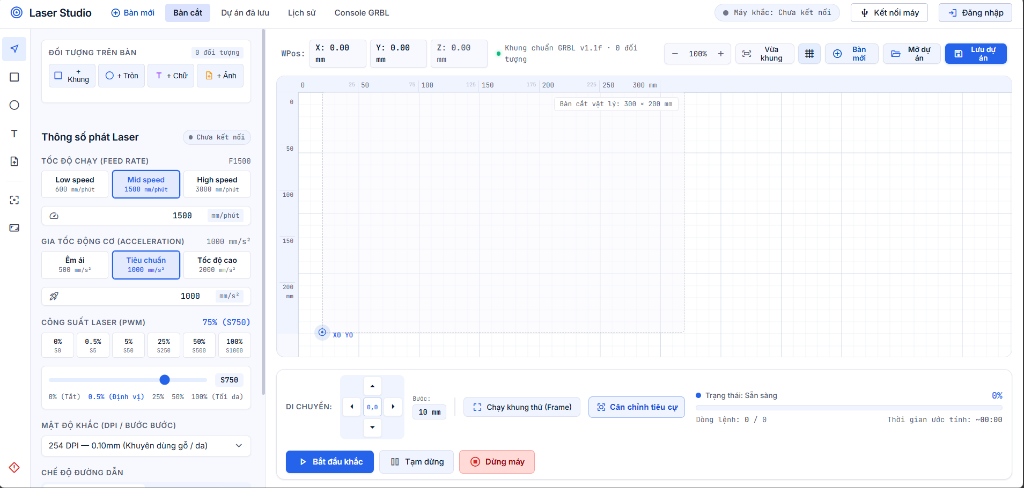
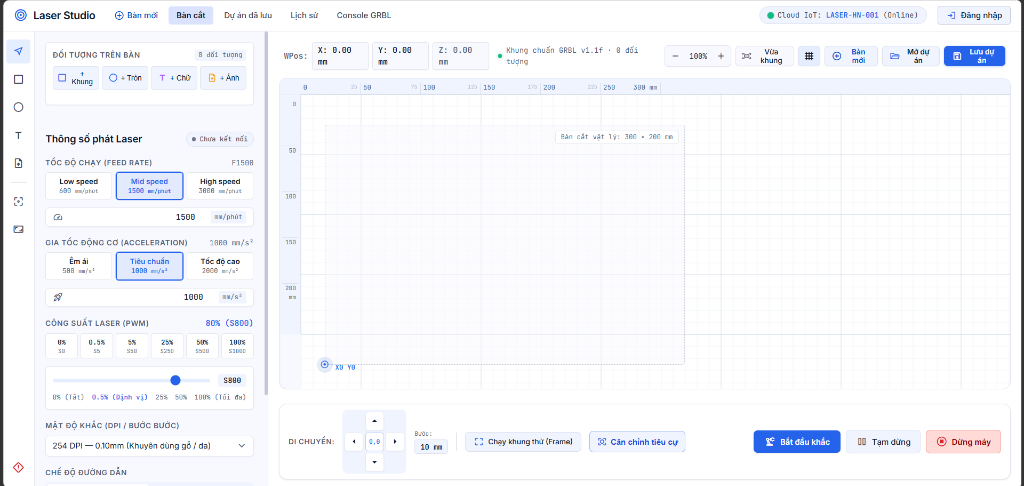
readme

diff --git a/README.md b/README.md
@@ -2,12 +2,13 @@
 
 # ⚡ LaserGUI — Web Controller & Laser Studio
 
-### Hệ thống Web Studio điều khiển máy khắc Laser 2 trục X-Y trực tiếp qua Web Serial API
+### Hệ thống Web Studio điều khiển & điều hành trạm khắc Laser 2 trục X-Y qua Web Serial API và IoT Cloud WebSocket
 
 [![React](https://img.shields.io/badge/React-18.x-61DAFB?style=for-the-badge&logo=react&logoColor=black)](https://react.dev/)
 [![Vite](https://img.shields.io/badge/Vite-8.x-646CFF?style=for-the-badge&logo=vite&logoColor=white)](https://vitejs.dev/)
 [![Web Serial API](https://img.shields.io/badge/Web_Serial_API-Enabled-00C853?style=for-the-badge&logo=googlechrome&logoColor=white)](https://developer.mozilla.org/en-US/docs/Web/API/Web_Serial_API)
-[![GRBL](https://img.shields.io/badge/Firmware-GRBL_v1.1f-orange?style=for-the-badge&logo=arduino&logoColor=white)](https://github.com/gnea/grbl)
+[![WebSocket STOMP](https://img.shields.io/badge/IoT_Cloud-WebSocket_STOMP-blueviolet?style=for-the-badge)](https://stomp.github.io/)
+[![GRBL & ESP32](https://img.shields.io/badge/Firmware-GRBL_v1.1f_%7C_MKS_DLC32-orange?style=for-the-badge&logo=arduino&logoColor=white)](https://github.com/makerbase-mks/MKS-DLC32)
 [![Author](https://img.shields.io/badge/Tác_giả-Vũ_Đình_Ân-blue?style=for-the-badge&logo=github)](https://github.com/AnVu05)
 [![OJT](https://img.shields.io/badge/Đơn_vị_OJT-HYPERDATA_LAB-purple?style=for-the-badge)](https://github.com/AnVu05)
 [![License](https://img.shields.io/badge/Giấy_phép-MIT-brightgreen?style=for-the-badge)](LICENSE)
@@ -15,7 +16,7 @@
 <br />
 
 <p align="center">
-  <b>LaserGUI</b> là ứng dụng Web Single-Page Application (SPA) hiện đại được thiết kế để điều khiển, thiết kế và truyền phát mã G-code trực tiếp xuống máy khắc Laser CNC 2 trục từ trình duyệt Web thông qua <b>Web Serial API</b> mà không cần cài đặt phần mềm bên thứ ba như LightBurn hay LaserGRBL.
+  <b>LaserGUI</b> là ứng dụng Web Single-Page Application (SPA) công nghiệp hiện đại, tích hợp toàn diện quy trình từ <b>thiết kế 2D Canvas</b>, <b>xử lý ảnh số Dithering</b>, <b>sinh mã G-code chuẩn GRBL</b>, truyền phát trực tiếp qua <b>Web Serial API</b> tại chỗ cho đến <b>điều hành trạm máy IoT Cloud từ xa</b>, quản lý <b>hàng đợi gia công FIFO</b> và <b>phê duyệt an toàn vật liệu 2 bước</b>.
 </p>
 
 </div>
@@ -25,12 +26,22 @@
 ## 📸 Giao diện Ứng dụng Thực tế (Showcase)
 
 ### 1. Toàn cảnh Không gian làm việc Laser Studio (Workspace Overview)
-Giao diện trực quan hóa bàn khắc 300 × 200 mm, bảng điều khiển thông số phát Laser PWM, hệ thống Jogging 4 hướng và thanh công cụ điều khiển thời gian thực:
+Giao diện trực quan hóa bàn khắc $300 \times 200\text{ mm}$, bảng cấu hình phát Laser PWM (Feed Rate, Gia tốc, Mật độ DPI), hệ thống phím Jogging 4 hướng và tích hợp chỉ báo trạng thái kết nối Cloud IoT trạm máy:
 
 ![Laser Studio Workspace Overview](./docs/images/laser-studio-overview.png)
 
-### 2. Thuật toán Xử lý ảnh Dithering Floyd-Steinberg trên Bàn cắt
-Minh họa đưa ảnh bitmap (Tranh dân gian gà Đông Hồ) lên bàn khắc vật lý, xử lý ma trận điểm ảnh raster và định vị gốc phôi chuẩn xác:
+### 2. Bảng Điều Hành Trạm Máy & Giám Sát IoT Thời Gian Thực (Station IoT & Admin Dashboard)
+Bảng điều khiển chuyên sâu dành riêng cho vai trò Quản lý / Kỹ thuật viên vận hành xưởng: Giám sát toàn diện các chỉ số trạm máy (Trạng thái trạm, Hàng đợi FIFO, Chờ duyệt an toàn tại chỗ, Đang gia công khắc, Đã hoàn tất), thông số vi điều khiển Makerbase MKS DLC32 (Địa chỉ IP, Cường độ sóng Wi-Fi RSSI, Bộ nhớ RAM Heap) và đồng bộ cấu hình phần cứng v2:
+
+![Bảng Điều Hành Trạm Máy & Phê Duyệt An Toàn](./docs/images/admin-station-dashboard.png)
+
+### 3. Quản Lý Hàng Đợi Gia Công (FIFO Queue) & Phê Duyệt An Toàn Vật Liệu
+Giao diện điều phối hàng đợi thông minh cho phép khách hàng tạo yêu cầu gia công liên tục ngay cả khi máy đang bận. Tích hợp bộ lọc trạng thái đa năng, đối soát tính toàn vẹn mã G-code bằng hàm băm mật mã học **SHA-256**, theo dõi thanh tiến độ gia công thời gian thực và thực hiện phê duyệt an toàn trước khi chiếu tia:
+
+![Quản lý Hàng đợi & Phê duyệt An toàn](./docs/images/admin-job-queue-management.png)
+
+### 4. Thuật toán Xử lý ảnh Dithering Floyd-Steinberg trên Bàn cắt
+Minh họa đưa ảnh bitmap lên bàn khắc vật lý, xử lý ma trận điểm ảnh raster và định vị gốc phôi chuẩn xác không gây cháy xém:
 
 ![Dithering Canvas Preview](./docs/images/dithering-canvas-preview.png)
 
@@ -39,39 +50,72 @@ Minh họa đưa ảnh bitmap (Tranh dân gian gà Đông Hồ) lên bàn khắc
 ## 🌟 Tính Năng Nổi Bật (Key Features)
 
 ### 1. 🎨 Bàn Làm Việc 2D Canvas Studio Chuyên Nghiệp
-- **Khổ cắt vật lý chuẩn hóa**: Khổ làm việc $300 \times 200\text{ mm}$ khớp với chuẩn cơ khí máy khắc Laser CNC (CNC Shield V3 / MKS DLC32).
-- **Thước đo & Hệ tọa độ thời gian thực (WPos)**: Hiển thị tọa độ đầu laser chính xác từng $0.1\text{ mm}$, lưới kẻ ô millimeter hỗ trợ căn chỉnh phôi.
+- **Khổ cắt vật lý chuẩn hóa**: Vùng làm việc tiêu chuẩn $300 \times 200\text{ mm}$ tương thích hoàn hảo với cơ cấu chuyển động trục đai 2 trục X-Y.
+- **Thước đo & Tọa độ thời gian thực (WPos)**: Hiển thị tọa độ đầu khắc chính xác từng $0.1\text{ mm}$, hệ lưới millimeter hỗ trợ căn phôi nhanh chóng.
 - **Đa dạng đối tượng thiết kế**:
-  - Đối tượng hình học vector (Khung chữ nhật, Hình tròn/Ellipse).
-  - Khắc chữ (Text Vector) tự động tính toán tỷ lệ.
+  - Đối tượng vector hình học (Khung chữ nhật, Hình tròn/Ellipse).
+  - Khắc chữ (Text Vector) tự động tính toán kích thước bao (Bounding Box).
   - Ảnh Bitmap (PNG, JPG, BMP) tự động tính toán kích thước tối ưu theo tỷ lệ gốc.
-- **Công cụ điều hướng mạnh mẽ**: Phóng to/thu nhỏ (Zoom in/out), Vừa khung hình (Fit view), căn giữa và khóa tỷ lệ khung hình (Aspect Ratio Lock).
+- **Công cụ điều hướng trực quan**: Phóng to/thu nhỏ (Zoom in/out), Vừa khung hình (Fit view), Bàn mới, nạp lại dự án đã lưu.
 
 ### 2. 🖼 Thuật Toán Xử Lý Ảnh Số Chuyên Biệt Cho Khắc Laser Diode
-- **Chuyển đổi Grayscale chuẩn ITU-R BT.601**: Áp dụng trọng số quang học chính xác ($Y = 0.299R + 0.587G + 0.114B$).
-- **Khuếch tán sai số Floyd-Steinberg Dithering**: Phân phối sai số điểm ảnh sang 4 pixel lân cận theo ma trận $\frac{7}{16}, \frac{3}{16}, \frac{5}{16}, \frac{1}{16}$, triệt tiêu hiện tượng răng cưa và tạo chiều sâu sắc nét cho tranh khắc gỗ/da.
-- **Tinh chỉnh ảnh thời gian thực**: Điều chỉnh độ tương phản (Contrast), độ sáng (Brightness) và chế độ đảo màu âm bản (Invert) phù hợp cho khắc bề mặt mica đen hoặc nhôm phủ sơn.
+- **Chuyển đổi Grayscale chuẩn ITU-R BT.601**: Áp dụng trọng số quang phổ chuẩn xác ($Y = 0.299R + 0.587G + 0.114B$).
+- **Khuếch tán sai số Floyd-Steinberg Dithering**: Phân phối sai số điểm ảnh sang 4 pixel lân cận theo ma trận trọng số $\frac{7}{16}, \frac{3}{16}, \frac{5}{16}, \frac{1}{16}$, triệt tiêu răng cưa và tái hiện sắc thái tương phản cao trên bề mặt gỗ, da, mica.
+- **Tinh chỉnh ảnh thời gian thực**: Điều chỉnh độ tương phản (Contrast), độ sáng (Brightness) và chế độ đảo màu âm bản (Invert).
 
 ### 3. ⚡ Bộ Sinh Mã G-Code Chuẩn GRBL Laser Mode ($32=1)
-- **Tương thích GRBL v1.1f Laser Mode**: Tự động chèn `$32=1`, đơn vị milimét `G21`, tọa độ tuyệt đối `G90`.
-- **Điều chế xung công suất Laser PWM**: Điều khiển bật/tắt tia theo mã `M3 S[0..1000]` và `M5`, loại bỏ vệt cháy sém khi di chuyển không tải `G0`.
-- **Trình mô phỏng đường chạy dao (Toolpath Visualizer)**: Hiển thị trực quan đường cắt laser G1 (màu đỏ) và đường di chuyển nhanh G0 (vàng ngắt nét), kiểm tra tràn vùng làm việc (Bounds Checker) và ước tính thời gian gia công.
+- **Tương thích GRBL v1.1f Laser Mode**: Tự động chèn `$32=1`, đơn vị milimét `G21`, hệ tọa độ tuyệt đối `G90`.
+- **Điều chế xung công suất Laser PWM**: Điều khiển bật/tắt tia theo mã `M3 S[0..1000]` và ngắt phát tia an toàn `M5` khi di chuyển hành trình nhanh `G0`.
+- **Trình mô phỏng đường chạy dao (Toolpath Visualizer)**: Hiển thị trực quan đường cắt laser G1 (đỏ) và di chuyển không tải G0 (vàng đứt nét), kiểm tra tràn biên khổ cắt (Bounds Checker).
 
-### 4. 🔌 Kết Nối Trực Tiếp Qua Web Serial API & Chống Tràn Buffer
+### 4. 🔌 Kết Nối Trực Tiếp Qua Web Serial API (Local CNC USB)
 - **Giao tiếp cổng COM trực tiếp từ trình duyệt**: Kết nối phần cứng thông qua Web Serial API với tốc độ Baud rate tiêu chuẩn `115200`.
-- **Thuật toán Call-and-Response chống tràn bộ đệm**: Kiểm soát dòng lệnh chờ phản hồi `ok` từ GRBL, giải quyết triệt để vấn đề tràn bộ đệm phần cứng giới hạn $127\text{ bytes}$ của vi điều khiển ATmega328P.
-- **Bàn phím Jogging 4 hướng**: Di chuyển đầu khắc theo trục X±, Y± với bước nhảy linh hoạt ($0.1\text{ mm}$, $1\text{ mm}$, $10\text{ mm}$, $50\text{ mm}$).
-- **Chạy khung thử (Framing Bounding Box)**: Quét viền ngoài phôi với công suất tia định vị cực yếu ($S5 - 0.5\%$) giúp người dùng căn phôi an toàn trước khi bấm khắc.
-- **Dừng khẩn cấp (E-Stop)**: Ngắt phát tia laser ngay lập tức và dừng động cơ bước.
+- **Thuật toán Call-and-Response chống tràn bộ đệm**: Kiểm soát từng dòng lệnh chờ chuỗi phản hồi `ok` từ GRBL, khắc phục triệt để vấn đề tràn bộ đệm phần cứng giới hạn $127\text{ bytes}$.
+- **Bàn phím Jogging D-Pad**: Di chuyển đầu khắc theo trục X±, Y± với bước nhảy linh hoạt ($0.1\text{ mm}$, $1\text{ mm}$, $10\text{ mm}$).
+- **Chạy khung thử (Framing Bounding Box)**: Quét viền ngoài phôi với công suất tia cực yếu ($S5 - 0.5\%$) hỗ trợ định vị và căn cữ phôi an toàn.
 
-### 5. 🔬 Căn Chỉnh Tiêu Cự & Hiệu Chuẩn Nhiệt Quang Học (LM-C40)
-- Tích hợp mô-đun tính toán vật lý quang học và mật độ năng lượng nhiệt dựa trên thông số thực tế của đầu khắc **LM-C40 5.5W**:
+---
+
+### 🚀 CÁC TÍNH NĂNG MỚI NÂNG CẤP (NEW FEATURES)
+
+### 5. 🌐 Hệ Thống Điều Hành IoT Cloud & Trạm Khắc Từ Xa (Remote Laser Station)
+- **Kết nối thông minh qua WebSocket STOMP**: Giao tiếp hai chiều thời gian thực giữa Web Frontend, Spring Boot Cloud Server và bo mạch 32-bit Makerbase MKS DLC32 (ESP32).
+- **Web Captive Portal & Tự Động Khôi Phục Wi-Fi (SoftAP Mode)**:
+  - Khi mất kết nối mạng hoặc đổi địa điểm làm việc, bo mạch tự động kích hoạt chế độ **SoftAP** phát Wi-Fi nội bộ.
+  - Người vận hành chỉ cần kết nối điện thoại/máy tính vào mạng phát của máy để cấu hình lại SSID & Password qua Web Portal mà không cần nạp lại firmware.
+- **Giám sát sức khỏe trạm máy**: Hiển thị trực quan trạng thái kết nối Online/Offline, địa chỉ IP mạng nội bộ, cường độ sóng Wi-Fi (dBm) và dung lượng bộ nhớ RAM Heap khả dụng.
+- **Đồng bộ tham số cấu hình phần cứng v2**: Cập nhật kích thước bàn khắc vật lý (Khổ X, Khổ Y), tốc độ tối đa và công suất cực đại trực tiếp từ giao diện Admin xuống EEPROM/NVS bo mạch.
+
+### 6. ⏳ Hàng Đợi Gia Công Thông Minh FIFO (Smart Job Queue)
+- **Giải quyết bài toán máy bận**: Khách hàng và người dùng có thể gửi yêu cầu khắc tới hệ thống bất kỳ lúc nào ngay cả khi máy khắc đang thực hiện một lệnh gia công khác (miễn là trạm máy đang Online).
+- **Tự động xếp hàng FIFO (First-In, First-Out)**: Hệ thống tự động xếp lệnh vào hàng đợi, cấp phát mã Job duy nhất và số thứ tự chờ (`queuePosition`).
+- **Thông báo hàng đợi thời gian thực**: Giao diện người dùng tự động cập nhật vị trí hàng đợi và trạng thái của Job theo thời gian thực mà không cần tải lại trang.
+
+### 7. 🛡 Quy Trình Phê Duyệt An Toàn 2 Bước (2-Stage Material Safety Approval)
+- **Ngăn ngừa nguy cơ cháy nổ & hỏng phôi**: Khi Job được điều phối từ Web Client, lệnh gia công không tự ý chạy ngay mà chuyển vào trạng thái **"Chờ duyệt an toàn tại chỗ"** (`QUEUED` / `DISPATCHED`).
+- **Đối soát tính toàn vẹn tệp G-code bằng mã băm SHA-256**: Hệ thống tính toán mã băm SHA-256 cho toàn bộ nội dung G-code và hiển thị trên bảng quản trị để đối chiếu, bảo đảm file không bị sai lệch hoặc chắp vá trên đường truyền mạng.
+- **Cơ chế xác nhận an toàn của Quản trị viên (Admin Safety Gate)**:
+  - Kỹ thuật viên tại xưởng kiểm tra phôi thực tế trên bàn máy (độ phẳng, loại vật liệu, khoảng cách tiêu cự thấu kính).
+  - Nhấn nút **"Phê duyệt & Vào máy"** trên Dashboard để cấp quyền phát tia laser (`DISPATCHED` $\rightarrow$ `PRINTING`).
+
+### 8. 📊 Bảng Điều Hành Trạm Máy Quản Trị (Admin & Operator Dashboard)
+- **Thẻ thống kê tổng quan (Live Metric Cards)**:
+  - 🟢 **Trạng thái trạm máy**: Báo hiệu sẵn sàng tiếp nhận hoặc đang vận hành.
+  - ⏳ **Hàng đợi gia công (FIFO)**: Số lượng Job đang xếp hàng chờ vào máy.
+  - 🛡 **Chờ duyệt an toàn tại chỗ**: Số Job đã vào máy nhưng cần xác nhận từ Admin.
+  - ⚡ **Đang gia công khắc**: Số lượng Job đang trực tiếp phát tia laser.
+  - ✅ **Đã hoàn tất thành công**: Tổng số sản phẩm đã hoàn thiện lưu trong CSDL.
+- **Bộ lọc trạng thái linh hoạt**: Phân loại tức thì danh sách gia công theo các tab `Tất cả`, `Chờ duyệt tại chỗ`, `Hàng đợi`, `Đang khắc`, `Hoàn tất`.
+- **Cửa sổ Giám sát Telemetry Thời gian thực (Job Progress Modal)**: Theo dõi tiến độ phần trăm, dòng lệnh hiện tại, ước tính thời gian còn lại, biểu đồ nhiệt độ đầu khắc và cảm biến an toàn nắp che.
+
+### 9. 🔬 Căn Chỉnh Tiêu Cự & Hiệu Chuẩn Nhiệt Quang Học (LM-C40 5.5W)
+- Mô hình quang học chuyên sâu cho đầu khắc diode:
   - Tiêu cự làm việc chuẩn: $D_0 = 40.0\text{ mm}$
-  - Bán kính eo chùm tia tại tiêu điểm: $W_0 = 0.04\text{ mm}$ (Đường kính spot $0.08\text{ mm}$)
+  - Bán kính eo chùm tia tại tiêu điểm: $W_0 = 0.04\text{ mm}$ (Spot $0.08\text{ mm}$)
   - Vùng hội tụ hiệu dụng (Rayleigh Range): $Z_R = 3.0\text{ mm}$
-- Tự động cảnh báo suy giảm quang thông và đề xuất bù công suất khi khoảng cách lấy nét bị lệch.
+- Tự động cảnh báo suy giảm quang thông và đề xuất bù công suất khi khoảng cách lấy nét bị lệch khỏi tiêu điểm.
 
-### 6. 📚 Thư Viện Vật Liệu Mẫu Chuẩn Hệ Thống (Material Presets)
+### 10. 📚 Thư Viện Vật Liệu Mẫu Chuẩn Hệ Thống (Material Presets)
 Tích hợp sẵn thông số tốc độ (Feed Rate), công suất (PWM Power), số lượt cắt (Passes) và độ phân giải (DPI) tối ưu cho 6 loại vật liệu phổ biến:
 - 🌲 **Gỗ ép Plywood (3mm)**: Cắt vector $350\text{ mm/min} - 100\%$, Khắc $2000\text{ mm/min} - 65\%$.
 - 💎 **Mica Acrylic trong suốt (2.5mm)**: Cắt mép bóng gương $250\text{ mm/min} - 95\%$.
@@ -80,9 +124,10 @@ Tích hợp sẵn thông số tốc độ (Feed Rate), công suất (PWM Power),
 - 📦 **Bìa Carton cứng & Giấy Kraft**: Tốc độ cắt cao $1200\text{ mm/min} - 60\%$.
 - 🛡 **Nhôm sơn tĩnh điện / Anodized**: Khắc bóc lớp oxit màu $1600\text{ mm/min} - 85\%$.
 
-### 7. 🔐 Bảo Mật & Đồng Bộ Cloud CSDL
-- **Xác thực bảo mật**: Quản lý phiên đăng nhập qua **HttpOnly Cookie** (ngăn chặn tấn công XSS) kết hợp đăng ký xác thực qua Gmail OTP 6 số.
-- **Lưu trữ đám mây**: Tự động đồng bộ và nạp lại cấu hình dự án, bàn khắc và lịch sử tạo mã G-code trên CSDL Microsoft SQL Server thông qua Spring Boot Backend.
+### 11. 🔐 Xác Thực An Toàn Đa Tầng & Phân Quyền Vai Trò
+- **HttpOnly Cookie Authentication**: Bảo vệ token phiên làm việc an toàn tuyệt đối trước các tấn công Cross-Site Scripting (XSS).
+- **Đăng ký xác thực Gmail OTP 6 số**: Xác thực chủ quyền email người dùng trước khi cấp tài khoản.
+- **Phân quyền vai trò chặt chẽ (RBAC)**: Phân định rõ ràng giữa người dùng thông thường (`USER`) chỉ thiết kế/gửi Job và Quản trị viên (`ADMIN` / `OPERATOR`) có quyền điều hành trạm máy và phê duyệt phát tia.
 
 ---
 
@@ -90,13 +135,15 @@ Tích hợp sẵn thông số tốc độ (Feed Rate), công suất (PWM Power),
 
 | Lớp (Layer) | Công nghệ / Thư viện sử dụng | Mục đích chính |
 | :--- | :--- | :--- |
-| **Framework** | **React 18** | Quản lý Component trạng thái và giao diện người dùng |
+| **Framework** | **React 18** | Quản lý Component trạng thái và giao diện người dùng SPA |
 | **Build Tool** | **Vite 8** | Trình đóng gói siêu tốc với Hot Module Replacement (HMR) |
-| **Hardware I/O** | **Web Serial API** | Giao tiếp nhị phân / ký tự với bo mạch điều khiển CNC qua USB |
-| **Graphics** | **HTML5 Canvas 2D API** | Vẽ bàn cắt, hiển thị điểm ảnh Dithering & Toolpath G-Code |
-| **Styling** | **Vanilla CSS + Laser Studio Design System** | Giao diện Cyber-Industrial sắc sảo, tối ưu hiệu năng hiển thị |
+| **Hardware I/O (Local)** | **Web Serial API** | Giao tiếp nhị phân / ký tự với bo mạch CNC qua cáp USB |
+| **IoT Realtime Stream** | **WebSocket + STOMP.js + SockJS** | Nhận telemetry gia công và điều khiển trạm máy từ xa qua Cloud |
+| **Integrity Security** | **Web Crypto API (SHA-256)** | Tạo mã băm kiểm tra tính toàn vẹn file G-code |
+| **Graphics Engine** | **HTML5 Canvas 2D API** | Vẽ bàn cắt, hiển thị điểm ảnh Dithering & Toolpath G-Code |
+| **Styling** | **Vanilla CSS + Laser Studio Design System** | Giao diện Cyber-Industrial hiện đại, tối ưu hiệu năng hiển thị |
 | **Icons** | **Google Material Symbols Outlined** | Bộ biểu tượng đồ họa công nghiệp hiện đại |
-| **Backend Integration** | **Fetch API / RESTful API** | Tích hợp máy chủ Java 21 Spring Boot 3 (Project Loom) |
+| **Backend Integration** | **Fetch API / RESTful API** | Tích hợp máy chủ Java 21 Spring Boot 3 & SQL Server |
 
 ---
 
@@ -104,10 +151,12 @@ Tích hợp sẵn thông số tốc độ (Feed Rate), công suất (PWM Power),
 
 ```text
 src/frontend/laser-engraving/
-├── docs/                               # Tài liệu & hình ảnh chụp giao diện
+├── docs/                               # Tài liệu & hình ảnh chụp giao diện thực tế
 │   └── images/
-│       ├── laser-studio-overview.png   # Ảnh chụp toàn cảnh màn hình làm việc
-│       └── dithering-canvas-preview.png# Ảnh chụp chi tiết thuật toán Dithering
+│       ├── laser-studio-overview.png   # Toàn cảnh không gian làm việc Laser Studio
+│       ├── admin-station-dashboard.png # Bảng điều hành trạm máy & thông số IoT
+│       ├── admin-job-queue-management.png# Quản lý hàng đợi gia công & phê duyệt an toàn
+│       └── dithering-canvas-preview.png# Xem trước thuật toán Dithering trên bàn cắt
 ├── public/                             # Tài nguyên tĩnh (favicon.svg, icons.svg)
 ├── src/
 │   ├── assets/                         # Vector & tài nguyên ảnh giao diện
@@ -118,7 +167,9 @@ src/frontend/laser-engraving/
 │   │   ├── LaserCanvas.jsx             # Bàn làm việc Canvas 2D 300x200mm
 │   │   ├── ParameterPanel.jsx          # Cấu hình Feed rate, PWM, Gia tốc, DPI, Dithering
 │   │   ├── BottomDock.jsx              # Cụm điều khiển Jogging X/Y, Khung thử, Bắt đầu, Dừng
-│   │   ├── GCodeModal.jsx              # Xem trước G-code & mô phỏng Toolpath chạy dao
+│   │   ├── AdminDashboardView.jsx      # Bảng điều hành trạm máy, hàng đợi FIFO & duyệt an toàn
+│   │   ├── JobProgressModal.jsx        # Popup giám sát tiến độ gia công thời gian thực qua WebSocket
+│   │   ├── GCodeModal.jsx              # Xem trước G-code, mô phỏng Toolpath & điều phối IoT
 │   │   ├── ConsoleModal.jsx            # Cửa sổ dòng lệnh Terminal GRBL Serial trực tiếp
 │   │   ├── HistoryModal.jsx            # Quản lý lịch sử gia công và tải file .NC
 │   │   ├── ProjectsModal.jsx           # Quản lý & nạp lại các dự án đã lưu
@@ -126,9 +177,14 @@ src/frontend/laser-engraving/
 │   │   ├── LaserParametersView.jsx     # Thư viện quản lý vật liệu mẫu (Material Presets)
 │   │   ├── FocusCalibrationModal.jsx   # Căn chỉnh tiêu cự & hiệu chuẩn nhiệt quang học
 │   │   └── AuthModal.jsx               # Đăng nhập, Đăng ký Gmail OTP, Google OAuth
-│   ├── services/                       # Tầng kết nối REST API với Spring Boot
+│   ├── hooks/                          # Custom React Hooks
+│   │   └── useJobWebSocket.js          # Hook kết nối WebSocket STOMP nhận telemetry gia công
+│   ├── services/                       # Tầng kết nối REST API & WebSocket với Spring Boot
+│   │   ├── apiConfig.js                # Cấu hình URL endpoint & headers
 │   │   ├── authApi.js                  # Xác thực, đăng ký OTP, HttpOnly Cookie session
 │   │   ├── gcodeApi.js                 # Yêu cầu sinh mã G-code từ Backend
+│   │   ├── jobApi.js                   # Điều phối Job, truy vấn hàng đợi, lệnh điều khiển từ xa
+│   │   ├── websocketService.js         # Quản lý vòng đời kết nối WebSocket STOMP
 │   │   ├── historyApi.js               # Lưu và truy vấn lịch sử gia công
 │   │   ├── materialApi.js              # Quản lý danh mục vật liệu mẫu
 │   │   ├── projectApi.js               # Lưu trữ và nạp dữ liệu bàn khắc dự án
@@ -149,18 +205,17 @@ src/frontend/laser-engraving/
 
 ## 💻 Yêu Cầu Phần Cứng & Trình Duyệt
 
-### 1. Trình duyệt Web hỗ trợ Web Serial API
-Để ứng dụng có thể kết nối trực tiếp với cổng USB COM của máy khắc laser, bạn cần sử dụng các trình duyệt hỗ trợ Web Serial API trên máy tính:
-- ✅ **Google Chrome** (Phiên bản 89 trở lên)
+### 1. Trình duyệt Web hỗ trợ
+- ✅ **Google Chrome** (Phiên bản 89 trở lên) — *Khuyến nghị cho Web Serial API & WebSockets*
 - ✅ **Microsoft Edge** (Phiên bản 89 trở lên)
 - ✅ **Opera** (Phiên bản 75 trở lên)
-- ⚠ *Lưu ý: Firefox và Safari hiện chưa kích hoạt mặc định chuẩn Web Serial API.*
+- ⚠ *Đối với chế độ điều khiển qua Cloud IoT/WebSocket: Hỗ trợ mọi trình duyệt hiện đại trên PC và điện thoại thông minh (Chrome, Edge, Firefox, Safari).*
 
 ### 2. Phần cứng Máy Khắc Laser
-- **Bo mạch điều khiển**: Arduino Nano + CNC Shield V3 hoặc bo mạch 32-bit Makerbase MKS DLC32 / ESP32.
-- **Firmware**: **GRBL v1.1f** trở lên (Đã cấu hình Laser Mode `$32=1`).
-- **Module phát Laser**: Laser Diode 445nm công suất quang $5.5\text{ W}$ (Ví dụ: Laser Tree LM-C40) điều chế PWM qua chân Spindle (D11/Pin PWM).
-- **Cáp kết nối**: Cáp USB truyền dữ liệu chống nhiễu kết nối máy tính với bo điều khiển.
+- **Bo mạch điều khiển**: Makerbase **MKS DLC32 V2.1** (Vi điều khiển 32-bit ESP32 tích hợp Wi-Fi) hoặc Arduino Nano + CNC Shield V3.
+- **Firmware**: **GRBL v1.1f** hoặc **MKS-DLC32 Firmware** tùy biến (Đã kích hoạt Laser Mode `$32=1`, chế độ Web Captive Portal SoftAP).
+- **Module phát Laser**: Laser Diode bước sóng 445nm công suất quang $5.5\text{ W}$ (Ví dụ: Laser Tree LM-C40) điều chế PWM qua chân Spindle.
+- **Cáp kết nối**: Cáp USB truyền dữ liệu chống nhiễu (khi dùng Web Serial) hoặc kết nối qua mạng Wi-Fi cục bộ 2.4GHz (khi dùng Cloud IoT).
 
 ---
 
@@ -193,7 +248,7 @@ http://localhost:5173/
 ```bash
 npm run build
 ```
-Mã nguồn sau khi tối ưu hóa sẽ được lưu trữ trong thư mục `dist/`, sẵn sàng đưa lên các máy chủ web như Nginx, Vercel hoặc Spring Boot Static Resource.
+Mã nguồn sau khi tối ưu hóa sẽ được lưu trữ trong thư mục `dist/`, sẵn sàng đưa lên các máy chủ web như Nginx, Vercel hoặc đóng gói vào thư mục tài nguyên tĩnh của Spring Boot.
 
 ---
 
